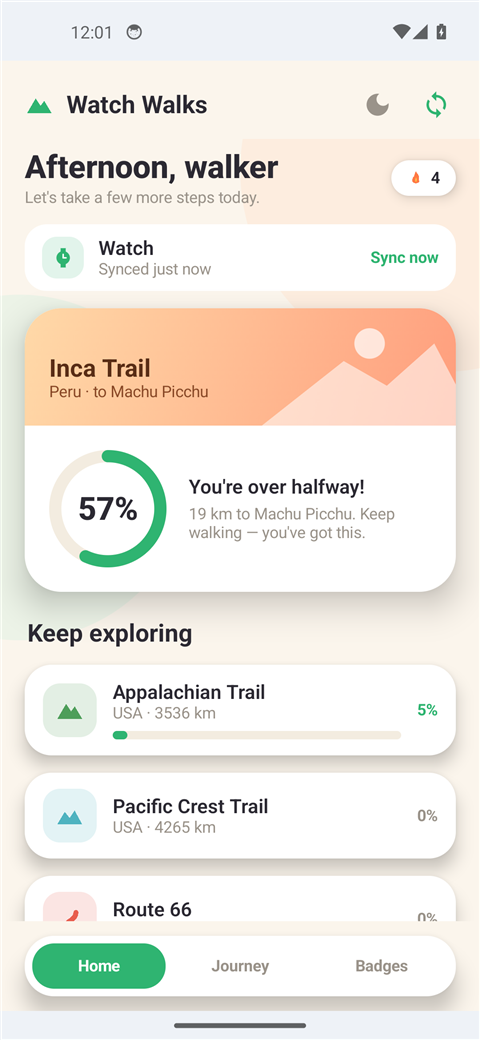
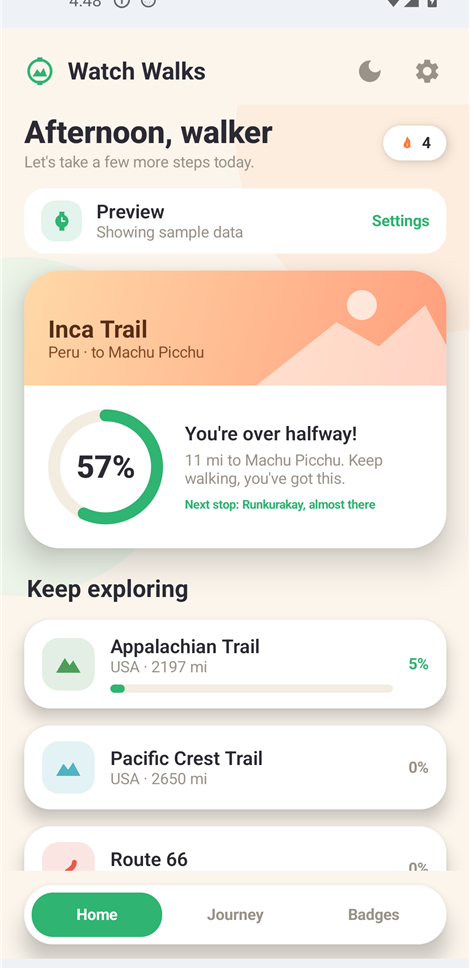
Four matching cleaned-up companion screenshots, remove text postcard

diff --git a/index.html b/index.html
@@ -106,14 +106,6 @@
         </div>
         <span class="label">Pull-down glance</span>
       </div>
-      <div class="device">
-        <div class="postcard">
-          <div class="pc-name">Sun Gate</div>
-          <div class="pc-loc">41 km from start</div>
-          <p class="pc-story">You step through Inti Punku, the Sun Gate, and there it is. Machu Picchu spread in stone far below, exactly as the Inca framed it. Walk on, you are nearly there.</p>
-        </div>
-        <span class="label">The story you unlock</span>
-      </div>
     </div>
   </section>
 
@@ -163,8 +155,9 @@
     <h2>Your whole journey, in your pocket.</h2>
     <p class="sub">A free phone app, Android first and iPhone to follow, that turns your steps into a living map. Watch your position move along the real route, collect a story for every landmark you pass, and earn a badge for each trail you finish.</p>
     <div class="shots">
-      <figure class="shot"><img src="img/companion-home.png" alt="Home screen with the current trail, progress ring and sync" loading="lazy"><figcaption>Home</figcaption></figure>
-      <figure class="shot"><img src="img/companion-journey.png" alt="Journey screen with the live route map and collected story postcards" loading="lazy"><figcaption>Journey</figcaption></figure>
+      <figure class="shot"><img src="img/companion-home.png" alt="Home screen with the current trail, progress ring and watch status" loading="lazy"><figcaption>Home</figcaption></figure>
+      <figure class="shot"><img src="img/companion-journey.png" alt="Journey screen with the live route map" loading="lazy"><figcaption>Journey</figcaption></figure>
+      <figure class="shot"><img src="img/companion-story.png" alt="Collected story postcards from the trail's landmarks" loading="lazy"><figcaption>Postcards</figcaption></figure>
       <figure class="shot"><img src="img/companion-badges.png" alt="Badges screen with the trail badge collection" loading="lazy"><figcaption>Badges</figcaption></figure>
     </div>
     <ul class="feat feat-two">

diff --git a/styles.css b/styles.css
@@ -157,9 +157,9 @@ footer .spacer { flex: 1; }
 .feat-two { grid-template-columns: 1fr 1fr; gap: 13px 28px; }
 
 /* companion screenshots */
-.shots { display: grid; grid-template-columns: repeat(3, 1fr); gap: 22px; justify-items: center; max-width: 720px; margin: 0 auto 34px; }
+.shots { display: grid; grid-template-columns: repeat(4, 1fr); gap: 20px; justify-items: center; max-width: 960px; margin: 0 auto 34px; }
 .shot { display: grid; justify-items: center; gap: 10px; margin: 0; }
-.shot img { width: 100%; max-width: 220px; border-radius: 26px; border: 1px solid var(--line); box-shadow: 0 22px 50px rgba(0,0,0,.5); display: block; }
+.shot img { width: 100%; max-width: 210px; border-radius: 20px; border: 1px solid var(--line); box-shadow: 0 18px 42px rgba(0,0,0,.45); display: block; }
 .shot figcaption { color: var(--subtle); font-size: 14px; font-weight: 600; }
 
 /* email signup */